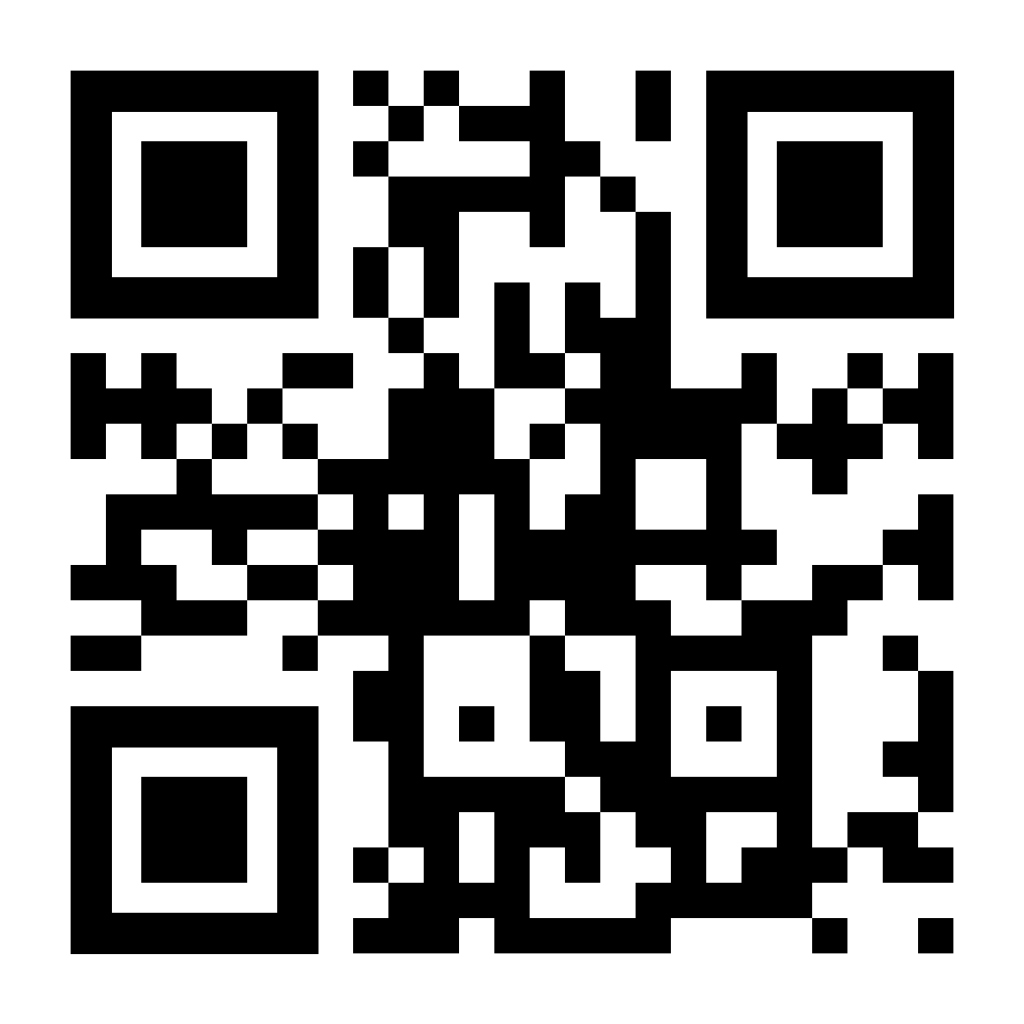
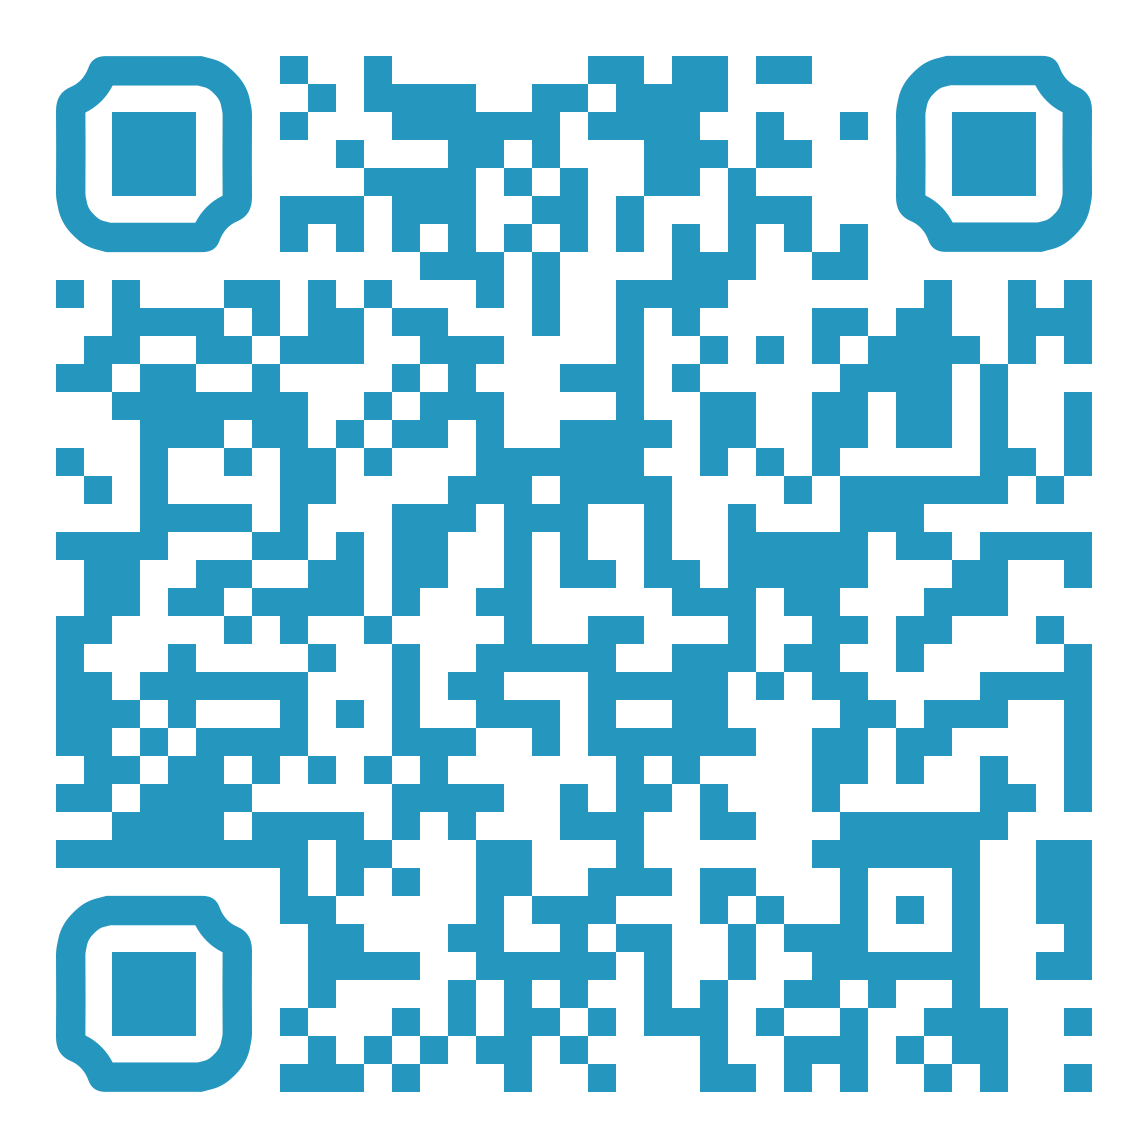
minimal change to slides for rsecon26

diff --git a/slides.md b/slides.md
@@ -24,23 +24,24 @@ h1 {color: teal}
 
 # Deploying a Web Application with Kubernetes
 ## A Cloud Native SIG Workshop
-*18 Feb 2026, CR16-R80*
-<br>
-Lewis Sampson (DAFNI) and Piper Fowler-Wright (RFI)
-<br>
+### RSECon26 Thursday 10th September
+Authors: Alex Lubbock<sup>1</sup>, Piper Fowler-Wright<sup>1</sup>, Lewis Sampson<sup>2</sup>, Tibor Auer<sup>3</sup>, Colin Sauzé<sup>4</sup>
 
-<p><img src="./slide-assets/github-pages-qr.png" style="width:200;height:200;float:right" alt="github pages QR code"> https://cloud-native-sig.github.io/stfcfeb26-intro-to-kubernetes/ </p>
+<sup>1</sup> *The Rosalind Franklin Institute*
+<sup>2</sup> *Science and Technology Facilities Council, Scientific Computing Division - DAFNI*
+<sup>3</sup> *University College London*
+<sup>4</sup> *The National Oceanography Centre*
 
 ---
 
-# Housekeeping
-## Agenda
-1. Introductions
-1. Background and context
+# In this Workshop
+1. Kubernetes Architecture  
 1. Deploying the Kubechaos App
-1. Refreshment Break & Troubleshooting
+1. Lunch Break
 1. ConfigMaps and Helm Charts
 1. Summary, Q&A, Follow-up opportunities
+
+Online documentation: [https://cloud-native-sig.github.io/rsecon26-intro-to-kubernetes/](https://cloud-native-sig.github.io/rsecon26-intro-to-kubernetes/)
 
 ---
 
@@ -874,33 +875,21 @@ helm list -n my-mocktail
 
 # Using Kubernetes in your work
 
-Everything you have learned today can be used in your own work. For further reading on the requirements to scale to production please see:
+Everything you have learned today can be used in your own work. For further reading on the requirements to scale to production 
+refer to the online docs:
 
-<img src='slide-assets/qr.png' width=200px class=centered-image></img>
-*https://github.com/cloud-native-sig/stfcfeb26-intro-to-kubernetes/*
+<img src='slide-assets/github-pages-qr.png' width=200px class=centered-image></img>
+*https://cloud-native-sig.github.io/rsecon26-intro-to-kubernetes/*
 
 
 ---
-# Knowledge Exchange opportunities
-## Cloud Native SIG
-This workshop was brought to you by the Cloud-Native SIG, with support from the **Software Sustainability Institute** 
-
-&nbsp;&nbsp;&nbsp;**Join us:**
+# Cloud-Native SIG
+Was brought to you with support for the **Software Sustainability Institute**
+**Join us:**
 - ✉ cloudnative-sig@jiscmail.ac.uk
 - 🌐 cloudnative-sig.ac.uk
 
-<img src='slide-assets/SSI-LOGO.png' ></img>
-
----
-
-# Knowledge exchange opportunities
-## CAKE Fellowship
-Read more here - https://www.cake.ac.uk/ke-fellowships/cohort1
-<br>
-
-## SCD Kubernetes colaboration group
-Contact Lewis - lewis.sampson@stfc.ac.uk for more information.
-
+<img src='slide-assets/SSI-LOGO.png' style="padding-top:100px" ></img>
 
 ---
 # Thanks for your participation
